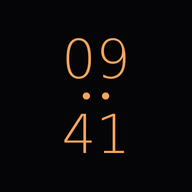
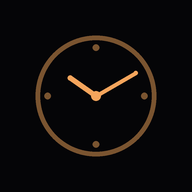
actualización de reloj

Changed region(s): [[0.1562, 0.1562, 0.8438, 0.8438]]

diff --git a/index.html b/index.html
@@ -11,6 +11,28 @@
 <link rel="apple-touch-icon" href="icon-192.png">
 <title>Reloj</title>
 <style>
+  /* DSEG7 Classic — keshikan, SIL Open Font License 1.1
+     Autoalojada: enlazarla a un CDN rompería el funcionamiento sin conexión.
+     Tres cortes declarados bajo la MISMA familia y distinto font-weight:
+     así el selector de grosor sigue funcionando con una sola pila. */
+  @font-face{
+    font-family:'DSEG7 Classic';
+    src:url('fuentes/DSEG7Classic-Light.woff2') format('woff2');
+    font-weight:100 250;
+    font-display:swap;
+  }
+  @font-face{
+    font-family:'DSEG7 Classic';
+    src:url('fuentes/DSEG7Classic-Regular.woff2') format('woff2');
+    font-weight:251 450;
+    font-display:swap;
+  }
+  @font-face{
+    font-family:'DSEG7 Classic';
+    src:url('fuentes/DSEG7Classic-Bold.woff2') format('woff2');
+    font-weight:451 900;
+    font-display:swap;
+  }
   /* ---------- Tokens ---------- */
   :root{
     --bg:      #050507;
@@ -75,7 +97,23 @@
     text-transform:uppercase;
     color:var(--ui-suave);
   }
-  #fecha{ justify-self:start; }
+  .fecha{
+    justify-self:start;
+    display:flex;
+    flex-direction:column;
+    gap:.3rem;
+    line-height:1;
+  }
+  .fecha .dia{
+    font-size:1.02rem;
+    letter-spacing:.15em;
+    color:var(--ui);
+  }
+  .fecha .mes{
+    font-size:.66rem;
+    letter-spacing:.22em;
+    color:var(--ui-suave);
+  }
   .indicador{ justify-self:center; display:flex; }
   .indicador svg{ width:1.05rem; height:1.05rem; display:block; }
   .bateria{ justify-self:end; display:flex; align-items:center; gap:.45em; letter-spacing:.2em; }
@@ -91,6 +129,14 @@
     justify-content:center;
     transform:translate(var(--deriva-x), var(--deriva-y));
     transition:transform 2.5s ease-in-out;
+  }
+
+  /* Solo los dígitos. En vertical se apilan, en horizontal van en fila;
+     el am/pm y la rutina quedan siempre debajo del conjunto. */
+  .esfera{
+    display:flex;
+    flex-direction:column;
+    align-items:center;
   }
 
   .grupo{
@@ -130,22 +176,29 @@
   .sufijo[hidden]{ display:none; }
 
   /* ---------- Riel de segundos ---------- */
+  /* ---------- Rieles de segundos ----------
+     Uno en cada borde. Los dos se llenan de abajo hacia arriba con el
+     mismo valor, así el par enmarca la esfera de forma simétrica. */
+  .rieles[hidden]{ display:none; }
+
   .riel{
     position:fixed;
-    top:14vh; bottom:14vh; right:0;
+    top:14vh; bottom:14vh;
     width:2px;
     background:var(--rail);
-    /* solo en Y: en X se saldría del borde */
     transform:translateY(var(--deriva-y));
     transition:transform 2.5s ease-in-out;
   }
-  .riel[hidden]{ display:none; }
-  .riel span{
+  .riel.izq{ left:0; }
+  .riel.der{ right:0; }
+
+  .riel i{
     position:absolute;
     left:0; bottom:0;
+    display:block;
     width:100%;
+    height:var(--segundos, 0%);
     background:var(--ambar);
-    height:0%;
   }
 
   .atenuador{
@@ -370,15 +423,36 @@
   }
   input[type="range"]{ flex:1; accent-color:var(--ambar); height:44px; }
 
+  /* ---------- Horizontal ----------
+     Hora y minutos en fila, aprovechando el ancho. Los rieles siguen
+     en los bordes laterales, solo un poco más largos. */
   @media (orientation:landscape){
-    .reloj{ flex-direction:row; align-items:center; gap:.06em; }
-    .grupo{ font-size:min(26vw, 62vh); }
+    .encabezado{ padding-top:max(1rem, env(safe-area-inset-top)); }
+
+    .esfera{
+      flex-direction:row;
+      align-items:center;
+      gap:.04em;
+    }
+    .grupo{ font-size:min(34vw, 66vh); }
+
     .separador{
       flex-direction:column;
-      gap:min(9vh, 4vw);
-      margin:0 min(2vw, 3vh);
+      gap:min(11vh, 5vw);
+      margin:0 min(2.4vw, 4vh);
     }
-    .separador i{ width:min(1.8vw, 4vh); }
+    .separador i{ width:min(2vw, 3.4vh); }
+
+    .sufijo{ margin-top:.6rem; }
+    .rutina{ margin-top:1rem; }
+
+    /* Los rieles siguen a los lados: en apaisado sobra ancho,
+       así que se acercan un poco a los bordes verticales */
+    .riel{ top:10vh; bottom:10vh; }
+
+    /* Panel más compacto: en apaisado sobra ancho y falta alto */
+    .controles{ padding-top:.7rem; gap:.45rem; }
+    .controles button{ min-height:40px; }
   }
 
   @media (prefers-reduced-motion:reduce){
@@ -389,7 +463,10 @@
 <body>
 
   <header class="encabezado">
-    <span id="fecha">—</span>
+    <div class="fecha">
+      <span class="dia" id="diaSemana">—</span>
+      <span class="mes" id="fechaCorta"></span>
+    </div>
     <span class="indicador" id="indicador"></span>
     <span class="bateria" id="bateria" hidden>
       <span class="rayo" id="rayo" hidden>⚡</span><span id="nivel"></span>
@@ -397,14 +474,19 @@
   </header>
 
   <main class="reloj">
-    <div class="grupo" id="horas">00</div>
-    <div class="separador" id="separador"><i></i><i></i></div>
-    <div class="grupo" id="minutos">00</div>
+    <div class="esfera">
+      <div class="grupo" id="horas">00</div>
+      <div class="separador" id="separador"><i></i><i></i></div>
+      <div class="grupo" id="minutos">00</div>
+    </div>
     <div class="sufijo" id="sufijo" hidden>am</div>
     <div class="rutina" id="rutina"></div>
   </main>
 
-  <div class="riel" id="riel"><span id="rielRelleno"></span></div>
+  <div class="rieles" id="rieles">
+    <span class="riel izq"><i></i></span>
+    <span class="riel der"><i></i></span>
+  </div>
   <div class="atenuador" id="atenuador"></div>
 
   <div class="pista" id="pista">
@@ -493,11 +575,14 @@ const aMinutos = b => {
 
 const COLORES = ['#F5A55C', '#E8E4DC', '#E04B3A', '#6BD1B0', '#7FA8FF'];
 
+/* `muestra` es solo el grosor con que se dibuja el botón de la paleta,
+   para que se lea bien. No afecta al reloj: el grosor lo manda el usuario. */
 const FUENTES = [
-  { nombre:'Roboto',   pila:"'Roboto','Helvetica Neue',system-ui,sans-serif",                   peso:100, track:'-.03em' },
-  { nombre:'Estrecha', pila:"'Roboto Condensed','sans-serif-condensed','Arial Narrow',sans-serif", peso:200, track:'-.02em' },
-  { nombre:'Serif',    pila:"'Noto Serif',Georgia,serif",                                       peso:200, track:'-.01em' },
-  { nombre:'Mono',     pila:"'Roboto Mono','Noto Sans Mono',ui-monospace,monospace",            peso:300, track:'-.02em' }
+  { nombre:'Roboto',   pila:"'Roboto','Helvetica Neue',system-ui,sans-serif",                   muestra:200, track:'-.03em' },
+  { nombre:'Estrecha', pila:"'Roboto Condensed','sans-serif-condensed','Arial Narrow',sans-serif", muestra:300, track:'-.02em' },
+  { nombre:'Serif',    pila:"'Noto Serif',Georgia,serif",                                       muestra:400, track:'-.01em' },
+  { nombre:'Mono',     pila:"'Roboto Mono','Noto Sans Mono',ui-monospace,monospace",            muestra:400, track:'-.02em' },
+  { nombre:'Digital',  pila:"'DSEG7 Classic',ui-monospace,monospace",                           muestra:400, track:'0em'    }
 ];
 
 const PESOS = [
@@ -596,7 +681,7 @@ $('paleta').innerHTML =
   `<input type="color" id="personalizado" title="Color personalizado">`;
 
 $('fuentes').innerHTML = FUENTES.map((f, i) =>
-  `<button data-fuente="${i}" style="font-family:${f.pila};font-weight:${Math.max(f.peso, 200)}">${f.nombre}</button>`
+  `<button data-fuente="${i}" style="font-family:${f.pila};font-weight:${f.muestra}">${f.nombre}</button>`
 ).join('');
 
 $('pesos').innerHTML = PESOS.map(p =>
@@ -624,7 +709,7 @@ function render(){
   $('atenuador').style.opacity = estado.brillo / 100;
   $('brillo').value            = estado.brillo;
   $('personalizado').value     = estado.color;
-  $('riel').hidden             = !estado.segundos;
+  $('rieles').hidden      = !estado.segundos;
   $('sufijo').hidden           =  estado.formato24;
 
   marcar('#paleta button',  b => b.dataset.color?.toLowerCase() === estado.color.toLowerCase());
@@ -680,12 +765,12 @@ function pintarHora(){
 
   $('horas').textContent   = estado.formato24 ? dosDigitos(h) : String(h);
   $('minutos').textContent = dosDigitos(m);
-  $('rielRelleno').style.height = (s / 59 * 100) + '%';
+  raiz.setProperty('--segundos', (s / 59 * 100) + '%');
   $('separador').classList.toggle('apagado', s % 2 === 1);
 
-  $('fecha').textContent = ahora.toLocaleDateString('es-CO', {
-    weekday:'short', day:'numeric', month:'short'
-  }).replace(/\./g, '');
+  // "jueves" arriba, "6 de agosto" debajo
+  $('diaSemana').textContent  = ahora.toLocaleDateString('es-CO', { weekday:'long' });
+  $('fechaCorta').textContent = ahora.toLocaleDateString('es-CO', { day:'numeric', month:'long' });
 
   if (s === 0) aplicarDeriva();
 }
@@ -742,8 +827,9 @@ controles.addEventListener('click', e => {
   const d = b.dataset;
   if (d.color)                    estado.color = d.color;
   else if (d.fuente !== undefined){
+    // Solo cambia la familia. El grosor es una decisión aparte y se
+    // respeta el que el usuario haya dejado elegido.
     estado.fuente = Number(d.fuente);
-    estado.peso   = FUENTES[estado.fuente].peso;   // grosor recomendado de esa familia
   }
   else if (d.peso)                estado.peso = Number(d.peso);
   else if (d.accion === 'bloquear'){
@@ -848,8 +934,13 @@ async function alternarPantalla(){
   try {
     if (!document.fullscreenElement){
       await document.documentElement.requestFullscreen();
-      await screen.orientation.lock('portrait');
+      // Fija la orientación en la que esté el equipo ahora mismo,
+      // en vez de imponer vertical: el reloj sirve en las dos.
+      const actual = screen.orientation.type.startsWith('landscape')
+        ? 'landscape' : 'portrait';
+      await screen.orientation.lock(actual);
     } else {
+      screen.orientation.unlock?.();
       await document.exitFullscreen();
     }
   } catch (e) {

diff --git a/sw.js b/sw.js
@@ -7,14 +7,17 @@
    Al cambiar index.html hay que subir el número de VERSION, si no
    los equipos que ya lo instalaron seguirán viendo la versión vieja. */
 
-const VERSION = 'reloj-v7';
+const VERSION = 'reloj-v13';
 
 const ARCHIVOS = [
   './',
   './index.html',
   './manifest.json',
   './icon-192.png',
-  './icon-512.png'
+  './icon-512.png',
+  './fuentes/DSEG7Classic-Light.woff2',
+  './fuentes/DSEG7Classic-Regular.woff2',
+  './fuentes/DSEG7Classic-Bold.woff2'
 ];
 
 /* Instalación: descargar todo el shell de una vez. */

diff --git a/README.md b/README.md
@@ -1,35 +1,47 @@
 # Reloj vertical
 
-Reloj de escritorio para dejar un celular Android encendido en posición vertical.
-Un solo archivo HTML, sin dependencias ni conexión a internet.
+Reloj de escritorio para dejar un celular Android encendido mostrando la hora.
+Un solo archivo HTML, sin dependencias, sin conexión a internet.
 
-
+**Demo:** https://roberto095.github.io/reloj_html/
 
 ## Qué hace
 
-- Hora y minutos apilados, ocupando todo el alto de la pantalla
+- Hora y minutos en dígitos grandes: apilados en vertical, en fila en horizontal
 - Mantiene la pantalla encendida con la **Screen Wake Lock API**
-- Bloquea la orientación vertical en pantalla completa
-- Atenuador propio, por debajo del brillo mínimo del sistema
-- Selector de color y de tipografía
-- Formato 12 h / 24 h, riel de segundos, fecha y estado de la batería
-- Desplaza los dígitos unos píxeles cada minuto para no desgastar la retroiluminación
+- Rieles de segundos en ambos bordes laterales
+- **Rutina diaria editable**: bloques con hora y texto que se repiten cada día,
+  con aviso sonoro al cambiar de bloque (sonido sintetizado, sin archivos)
+- **Modo día / noche** automático por horario, con ajuste manual
+- Selector de color y de tipografía (fuentes del sistema, sin descargas)
+- Bloqueo de pantalla: se sale manteniendo pulsado
+- Atenuador propio, por debajo del brillo mínimo de Android
+- Toda la configuración se guarda en el equipo
+- Desplaza los dígitos unos píxeles cada minuto para no desgastar la pantalla
 
 ## Uso
 
-Abrir la demo en el navegador del celular, tocar la pantalla y elegir
-**Pantalla completa**. Luego "Añadir a la pantalla de inicio" para que abra
-como aplicación.
+Abrir la demo en el navegador del celular y usar "Añadir a la pantalla de inicio".
+Instalada, abre a pantalla completa y funciona sin conexión.
 
-> El Wake Lock exige HTTPS. Abriendo el archivo con `file://` la pantalla
-> se apaga igual.
+> El Wake Lock y el service worker exigen HTTPS. Abriendo el archivo con
+> `file://` no funcionan.
+
+## Estructura
+
+| Archivo | Para qué |
+|---|---|
+| `index.html` | Toda la app: marcado, estilos y lógica |
+| `sw.js` | Service worker (caché offline) |
+| `manifest.json` | Metadatos de instalación |
+| `icon-192.png`, `icon-512.png` | Íconos de la app |
+| `fuentes/` | DSEG7 Classic (SIL OFL 1.1) autoalojada |
 
 ## Desarrollo
 
 No hay build. Se edita `index.html` y se recarga.
 
-Para probar desde el celular en la red local, hace falta HTTPS o `localhost`.
-La vía más simple es reenviar el puerto por USB con depuración activada:
+Para probar desde el celular con HTTPS válido, reenviar el puerto por USB:
 
 ```bash
 python -m http.server 8000
@@ -38,18 +50,27 @@ adb reverse tcp:8000 tcp:8000
 
 Y abrir `http://localhost:8000` en el navegador del celular.
 
+### Al publicar un cambio
+
+Subir el número de `VERSION` en `sw.js`. Si no, los equipos que ya
+instalaron la app seguirán viendo la versión anterior indefinidamente.
+
 ## Personalización
 
-Los tokens de diseño están al inicio del `<style>`, en `:root`.
-Cambiar `--ambar` basta: los tonos secundarios se recalculan solos con
-`color-mix()`.
+- **Colores y medidas:** tokens al inicio del `<style>`, en `:root`.
+  Cambiar `--ambar` basta; los tonos derivados se recalculan con `color-mix()`.
+  La paleta `--ui-*` es la de los controles y no depende del acento.
+- **Rutina inicial:** array `BLOQUES_INICIALES`. Solo aplica en el primer
+  arranque; después manda lo que el usuario haya guardado.
+- **Horario del modo noche:** constantes `HORA_NOCHE` y `HORA_DIA`.
 
 ## Pendientes
 
-- [ ] Guardar la configuración en `localStorage`
-- [ ] Modo noche automático por horario
-- [x] Service worker para que funcione sin conexión
+- [ ] Repintar solo cuando el valor cambió, en vez de en cada tic
+- [ ] Aviso visible cuando el Wake Lock no se pudo activar
+- [ ] Leer la duración del desbloqueo desde CSS en vez de duplicarla en JS
 
 ## Licencia
 
-MIT
+MIT, salvo la tipografía DSEG7 Classic de keshikan, bajo SIL Open Font
+License 1.1 (ver `fuentes/DSEG-LICENSE.txt`).
